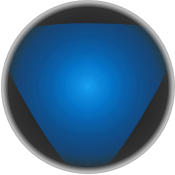
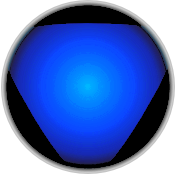
add ball-hole

diff --git a/index.html b/index.html
@@ -8,7 +8,9 @@
   </head>
   <body>
     <canvas class="canvas"></canvas>
-    <div class="ball"><img id="8ball" style="cursor: pointer;" src="img/ball.png" alt="ball"/></div>
+    <div class="ball"><img id="8ball" style="cursor: pointer;" src="img/ball.png" alt=""/></div>
+    <div class="ball-hole"><img id="8ball-hole" style="cursor: pointer;" src="img/ball-hole.png" alt=""/></div>
+    <div class="answear"><h1 id="8answear"></h1></div>
     <script src="https://ajax.googleapis.com/ajax/libs/jquery/1.11.1/jquery.min.js"></script>
     <script
       src="https://code.jquery.com/ui/1.12.1/jquery-ui.min.js"

diff --git a/js/script.js b/js/script.js
@@ -92,9 +92,12 @@ window.onload = function() {
   setInterval(draw, 10);
 
   //Magic Ball__________________________________________________
-  $("#8ball").click(function() {
+  $("#8ball-hole").hide();
+  $("#8ball, #8ball-hole").click(function() {
+    $("#8ball-hole").hide();
     run_effect();
-    $(this).effect( "shake", {times:5} );
+    $("#8ball").effect( "shake", {times:5} );
+    $("#8ball-hole").show(2000);
   });
        
 };

diff --git a/css/style.css b/css/style.css
@@ -21,3 +21,19 @@ canvas {
   top: 50%; 
   left: 50%;
 }
+
+.ball-hole {
+  margin: 0;
+  transform: translate(-50%, -50%);
+  position: absolute; 
+  top: 50%; 
+  left: 50%;
+}
+
+.answear {
+  margin: 0;
+  transform: translate(-50%, -50%);
+  position: absolute; 
+  top: 50%; 
+  left: 50%;
+}
